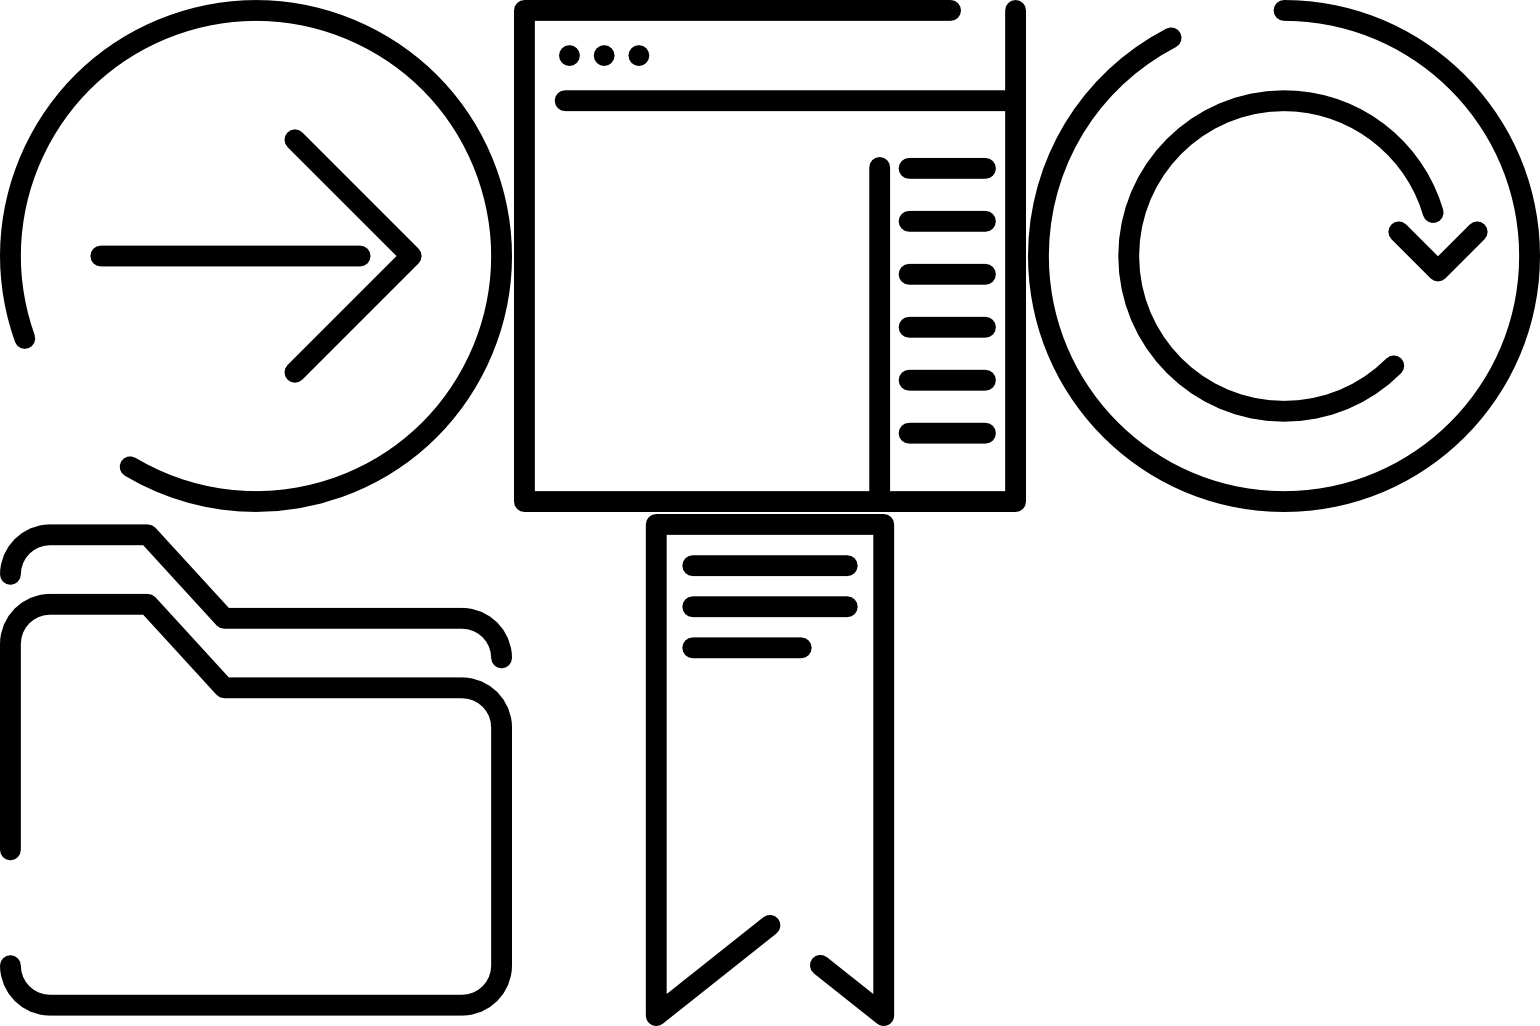
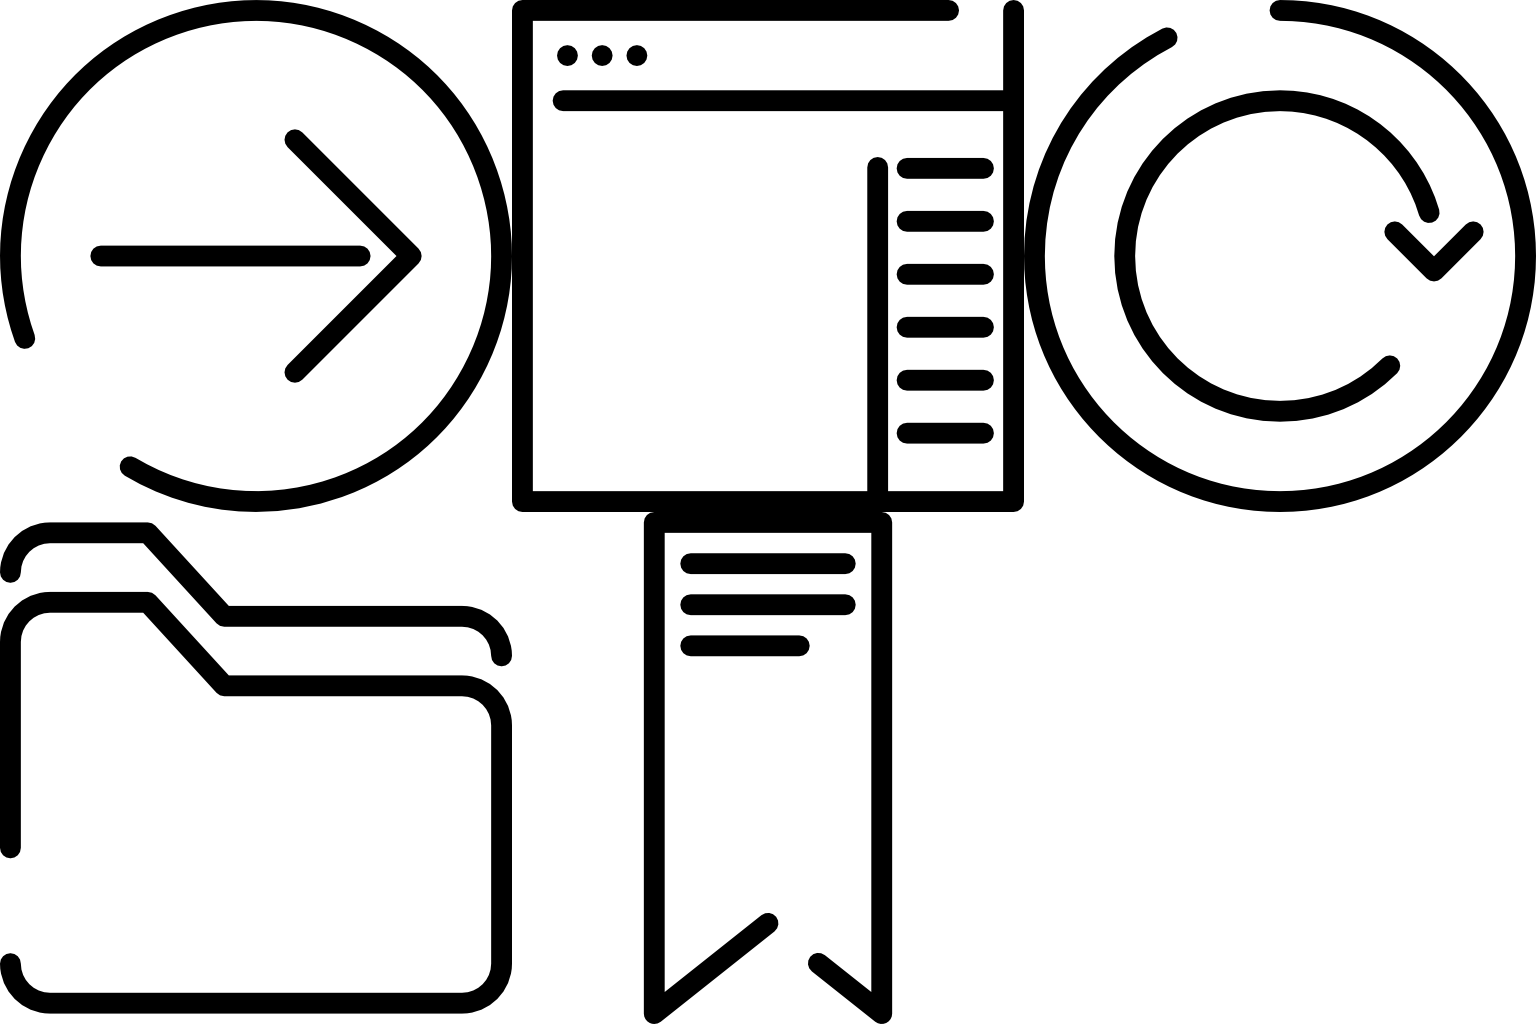
add components

diff --git a/src/sass/sprites/_icon.scss b/src/sass/sprites/_icon.scss
@@ -3,50 +3,50 @@ $icon-web-navigation-line-craft-1-109681: (
     y: 0,
     width: 512,
     height: 512,
-    total_width: 1540,
-    total_height: 1026,
+    total_width: 1536,
+    total_height: 1024,
     image: "../images/icon.png",
     offset_x: 0,
     offset_y: 0
 );$icon-web-navigation-line-craft-2-109682: (
-    x: 514,
+    x: 512,
     y: 0,
     width: 512,
     height: 512,
-    total_width: 1540,
-    total_height: 1026,
+    total_width: 1536,
+    total_height: 1024,
     image: "../images/icon.png",
-    offset_x: -514,
+    offset_x: -512,
     offset_y: 0
 );$icon-web-navigation-line-craft-3-109688: (
     x: 0,
-    y: 514,
+    y: 512,
     width: 512,
     height: 512,
-    total_width: 1540,
-    total_height: 1026,
+    total_width: 1536,
+    total_height: 1024,
     image: "../images/icon.png",
     offset_x: 0,
-    offset_y: -514
+    offset_y: -512
 );$icon-web-navigation-line-craft-4-109689: (
-    x: 514,
-    y: 514,
+    x: 512,
+    y: 512,
     width: 512,
     height: 512,
-    total_width: 1540,
-    total_height: 1026,
+    total_width: 1536,
+    total_height: 1024,
     image: "../images/icon.png",
-    offset_x: -514,
-    offset_y: -514
+    offset_x: -512,
+    offset_y: -512
 );$icon-web-navigation-line-craft-5-109690: (
-    x: 1028,
+    x: 1024,
     y: 0,
     width: 512,
     height: 512,
-    total_width: 1540,
-    total_height: 1026,
+    total_width: 1536,
+    total_height: 1024,
     image: "../images/icon.png",
-    offset_x: -1028,
+    offset_x: -1024,
     offset_y: 0
 );
 

diff --git a/vue-ttrs/src/js/main.js b/vue-ttrs/src/js/main.js
@@ -1,11 +1,7 @@
 import Vue from 'vue'
-import App from './app'
+import App from './App.vue'
 
 new Vue({
   el: '#app',
   render: h => h(App)
 });
-
-if (process.env.NODE_ENV === 'development') {
-
-}
